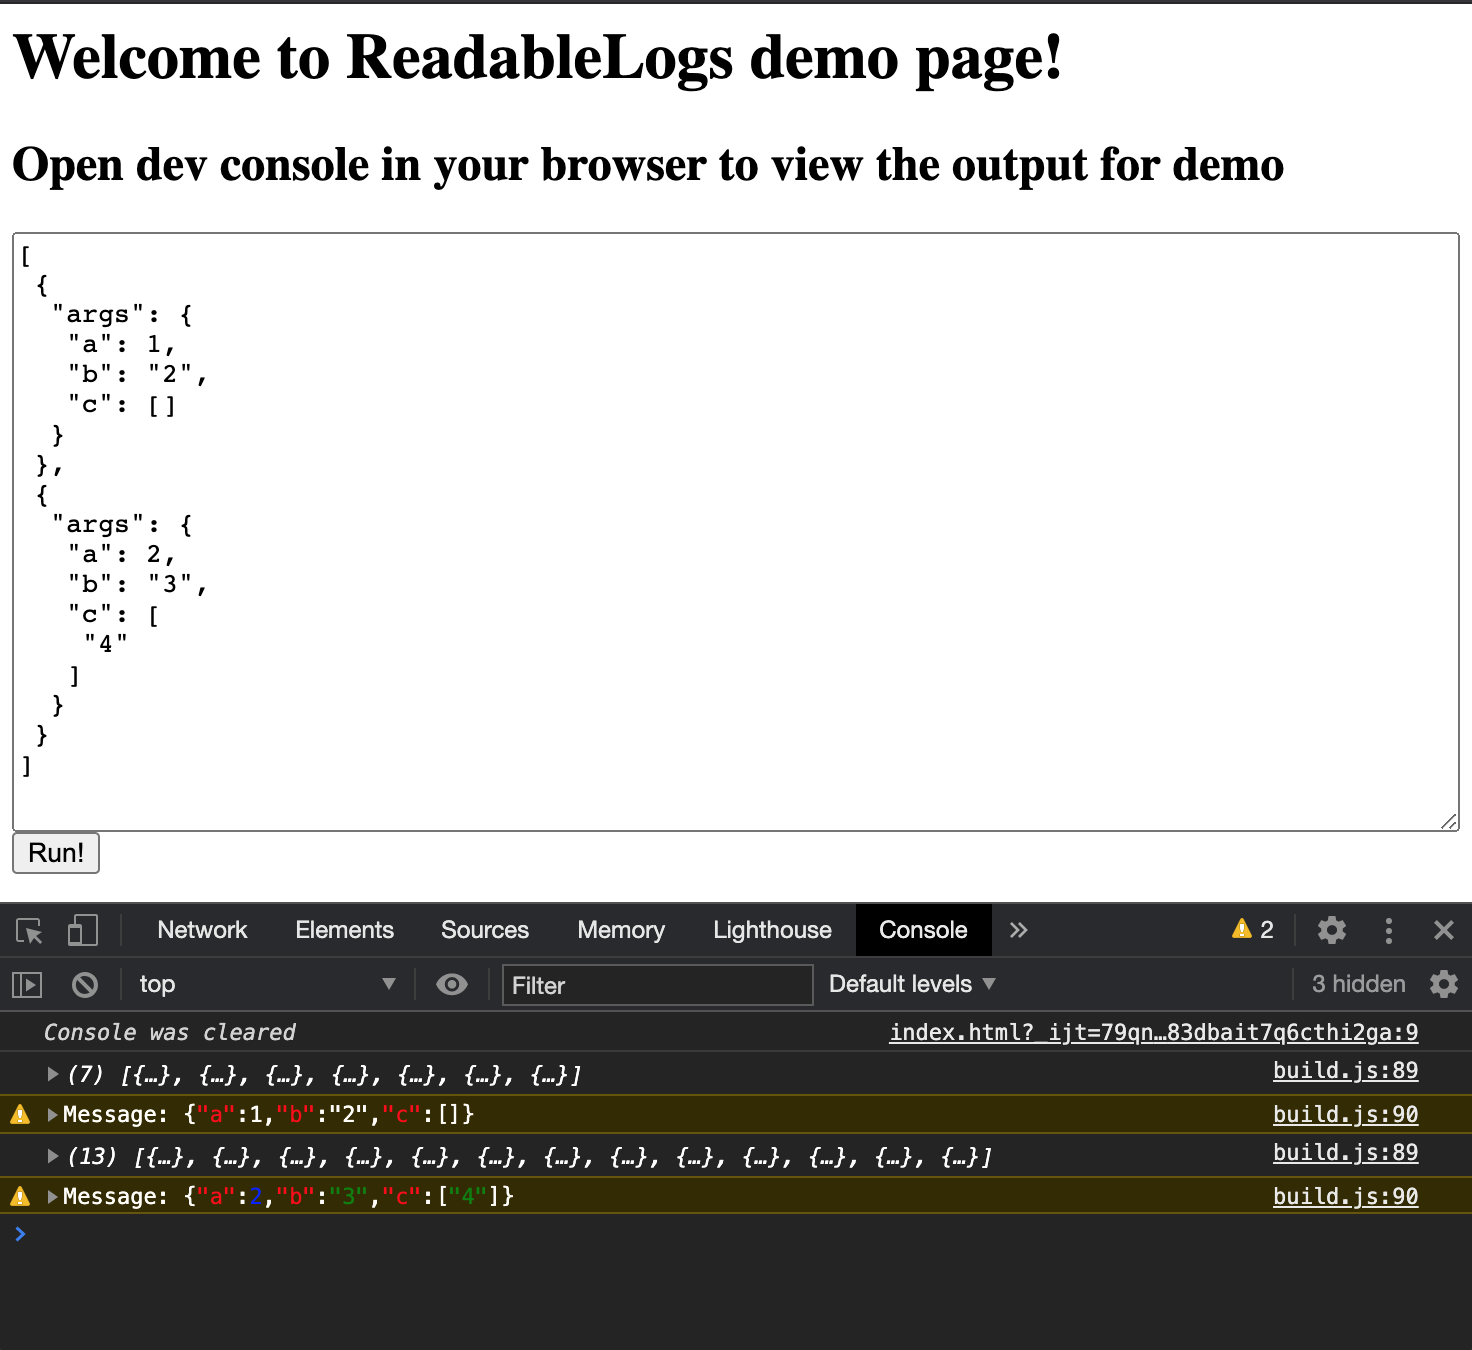
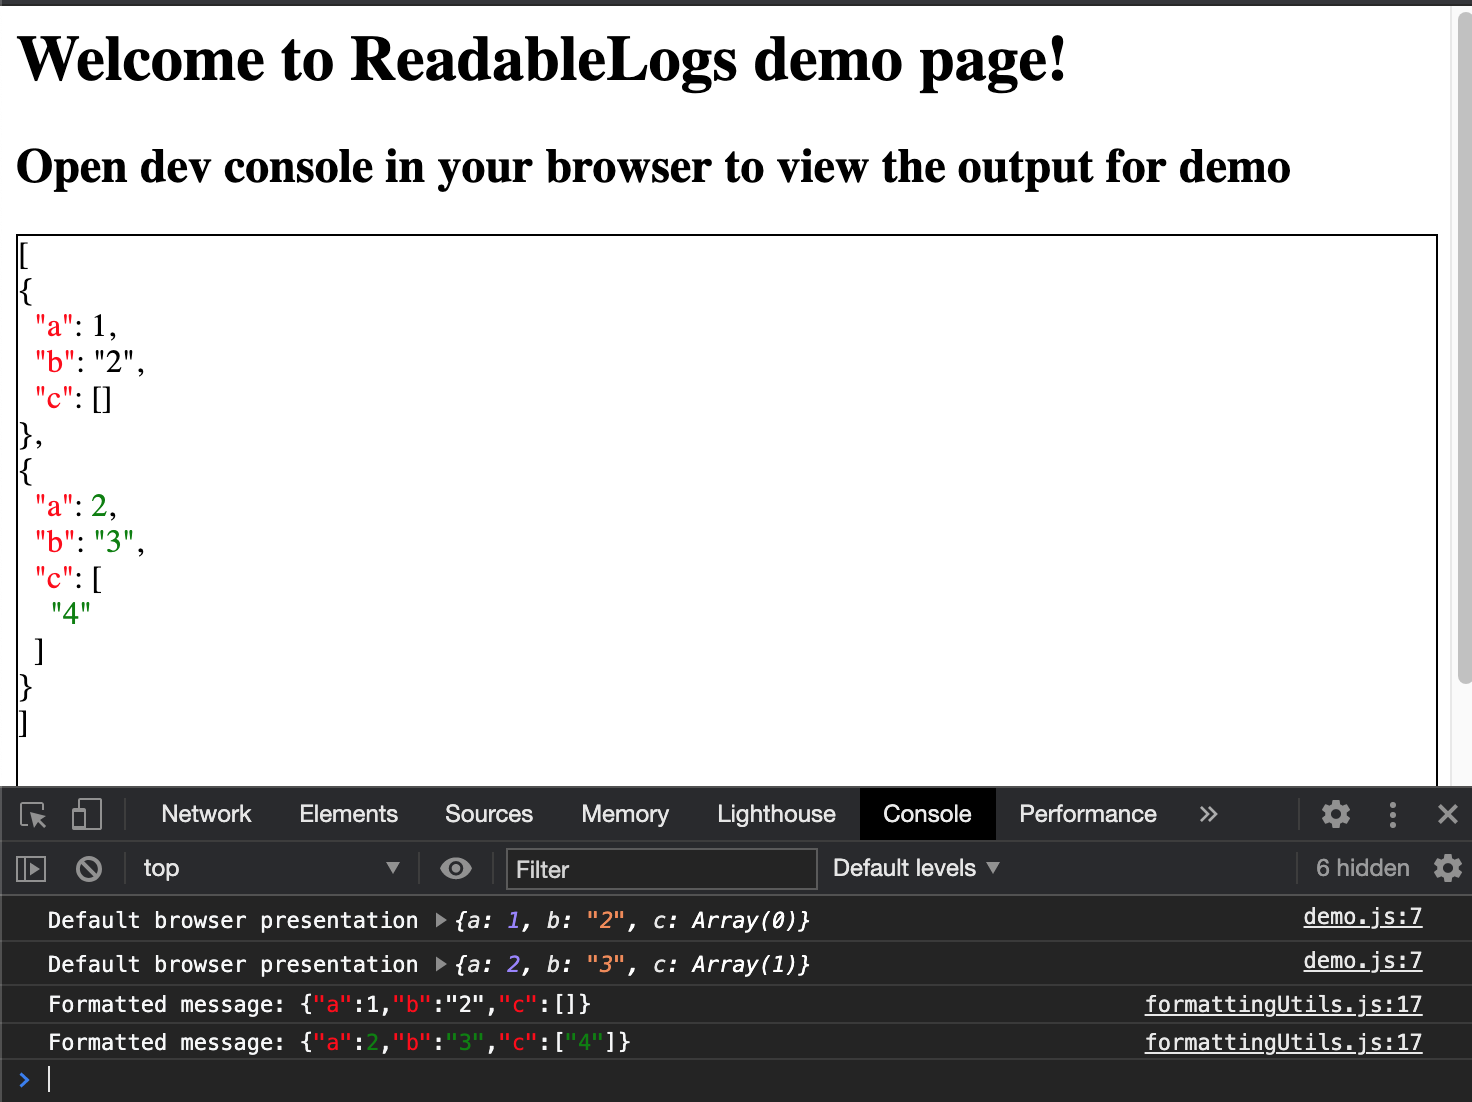
Add descrition in readme, allows to pass options as parameter

Changed region(s): [[0.0, 0.0, 1.0, 0.9564], [0.9688, 0.0, 1.0, 0.6171]]

diff --git a/scripts/demo.js b/scripts/demo.js
@@ -2,9 +2,15 @@ define(["require", "exports", "./PrettyLogs", "./testData", "./formattingUtils"]
     "use strict";
     Object.defineProperty(exports, "__esModule", { value: true });
     function executeFormatter(data) {
-        const res = PrettyLogs_1.formatLogs(data);
+        if (Array.isArray(data)) {
+            data.forEach((item) => {
+                console.log("Default browser presentation", item);
+            });
+        }
+        const res = PrettyLogs_1.formatLogs(data, { highlightKeys: true, showDifferences: true, formatMultiline: false });
         formattingUtils_1.showLogsInBrowserConsole(res);
-        document.querySelector("#demo_input").innerHTML = formattingUtils_1.highlightTextInHtml(res);
+        const result2 = PrettyLogs_1.formatLogs(data, { highlightKeys: true, showDifferences: true, formatMultiline: true });
+        document.querySelector("#demo_input").innerHTML = formattingUtils_1.highlightTextInHtml(result2);
     }
     executeFormatter(testData_1.logs);
     document.querySelector("#run").addEventListener("click", () => {

diff --git a/src/demo.ts b/src/demo.ts
@@ -3,9 +3,17 @@ import { logs } from "./testData";
 import { showLogsInBrowserConsole, highlightTextInHtml, removeHtmlEntities } from "./formattingUtils";
 
 function executeFormatter(data: any) {
-    const res = formatLogs(data);
+    if (Array.isArray(data)) {
+        data.forEach((item: any) => {
+            console.log("Default browser presentation", item);
+        });
+    }
+
+    const res = formatLogs(data, { highlightKeys: true, showDifferences: true, formatMultiline: false });
     showLogsInBrowserConsole(res);
-    document.querySelector("#demo_input")!.innerHTML = highlightTextInHtml(res);
+
+    const result2 = formatLogs(data, { highlightKeys: true, showDifferences: true, formatMultiline: true });
+    document.querySelector("#demo_input")!.innerHTML = highlightTextInHtml(result2);
 }
 executeFormatter(logs);
 

diff --git a/scripts/PrettyLogs.js b/scripts/PrettyLogs.js
@@ -70,11 +70,11 @@ define(["require", "exports"], function (require, exports) {
             return acc;
         }, []);
     }
-    function formatLogs(data) {
+    function formatLogs(data, options) {
         const res = [];
         const messages = (Array.isArray(data) ? data : [data]);
         messages.forEach((message, i) => {
-            const result = highlightPartsOfMessage(Object.keys(message), message, i === 0 ? undefined : (messages[i - 1]), { highlightKeys: true, showDifferences: true, formatMultiline: true });
+            const result = highlightPartsOfMessage(Object.keys(message), message, i === 0 ? undefined : (messages[i - 1]), options);
             res.push(result);
         });
         if (!Array.isArray(data)) {

diff --git a/src/PrettyLogs.ts b/src/PrettyLogs.ts
@@ -103,7 +103,7 @@ function highlightSubMessage(
     }, [] as LOG);
 }
 
-export function formatLogs(data: DataObject | DataObject[]): LOG | LOG[] {
+export function formatLogs(data: DataObject | DataObject[], options: Options): LOG | LOG[] {
     const res: LOG[] = [];
     const messages = (Array.isArray(data) ? data : [data]);
     messages.forEach((message, i) => {
@@ -111,7 +111,7 @@ export function formatLogs(data: DataObject | DataObject[]): LOG | LOG[] {
             Object.keys(message),
             message,
             i === 0 ? undefined : (messages[i - 1]!),
-            { highlightKeys: true, showDifferences: true, formatMultiline: true },
+            options,
         );
         res.push(result);
     });

diff --git a/scripts/PrettyLogs.d.ts b/scripts/PrettyLogs.d.ts
@@ -9,5 +9,10 @@ declare type DataObjectValues = ValueType | DataObject | DataObject[] | ValueTyp
 export interface DataObject {
     [key: string]: DataObjectValues;
 }
-export declare function formatLogs(data: DataObject | DataObject[]): LOG | LOG[];
+declare type Options = {
+    highlightKeys: boolean;
+    showDifferences: boolean;
+    formatMultiline: boolean;
+};
+export declare function formatLogs(data: DataObject | DataObject[], options: Options): LOG | LOG[];
 export {};

diff --git a/src/formattingUtils.ts b/src/formattingUtils.ts
@@ -16,7 +16,7 @@ function getColor(type: FormattingType): Color {
 
 export function showLogsInBrowserConsole(result: LOG | LOG[]) {
     ((Array.isArray(result[0]) ? result : [result]) as LOG[]).forEach(r => {
-        console.info(...formatForLoggingInBrowser("Message: ", r));
+        console.info(...formatForLoggingInBrowser("Formatted message: ", r));
     });
 }
 

diff --git a/README.md b/README.md
@@ -1,5 +1,37 @@
 # ReadableLogs
-Utility to format logs for browser console in more readable way (highlight changes, colorify JSON syntax)
+Utility formats logs for browser console in more readable way (highlight changes, colorify JSON syntax).
+
+Use case: utility allows to highlight data in JSON format in console logs for better readability.
+The difference with default presentation of objects in console -
+utility displays whole content of object instead of collapsed style.
+Another use case is for scenario when application has stateful client-server API
+and you need to track differences in state between messages.
+
+Useful links:
+- https://developer.mozilla.org/en-US/docs/Web/API/console#outputting_text_to_the_console
+
+Browsers support:
+- Chrome
+- Safari
+- Firefox
+
+Usage:
+```js
+    const logs = [
+        {
+            a: 1,
+            b: "2",
+            c: []
+        },
+        {
+            a: 2,
+            b: "3",
+            c: ["4"]
+        },
+    ];
+    const formattedLogs = formatLogs(logs, { highlightKeys: true, showDifferences: true, formatMultiline: true });
+    showLogsInBrowserConsole(formattedLogs);
+```
 
 Demo page: https://imevs.github.io/ReadableLogs/
 
